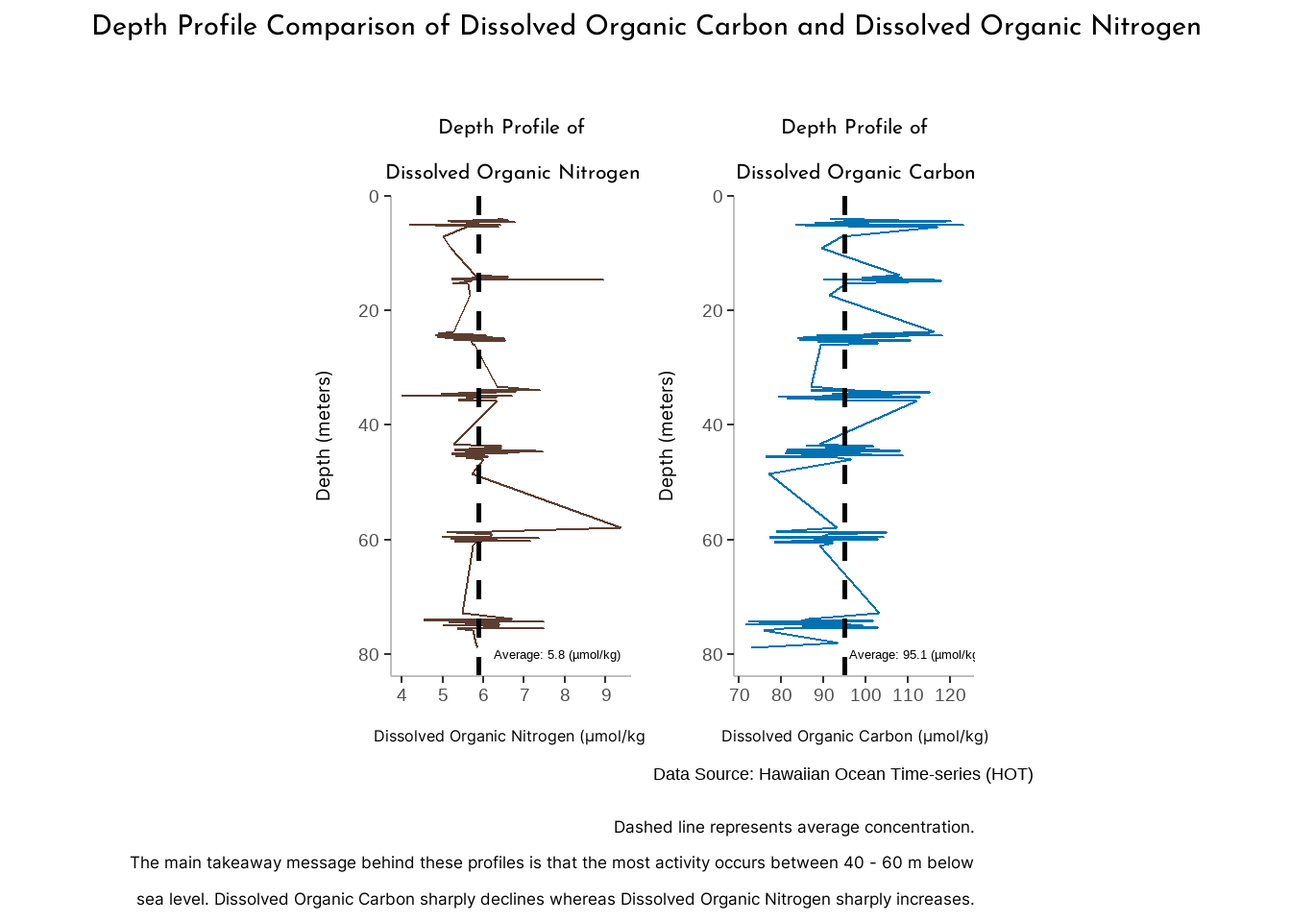
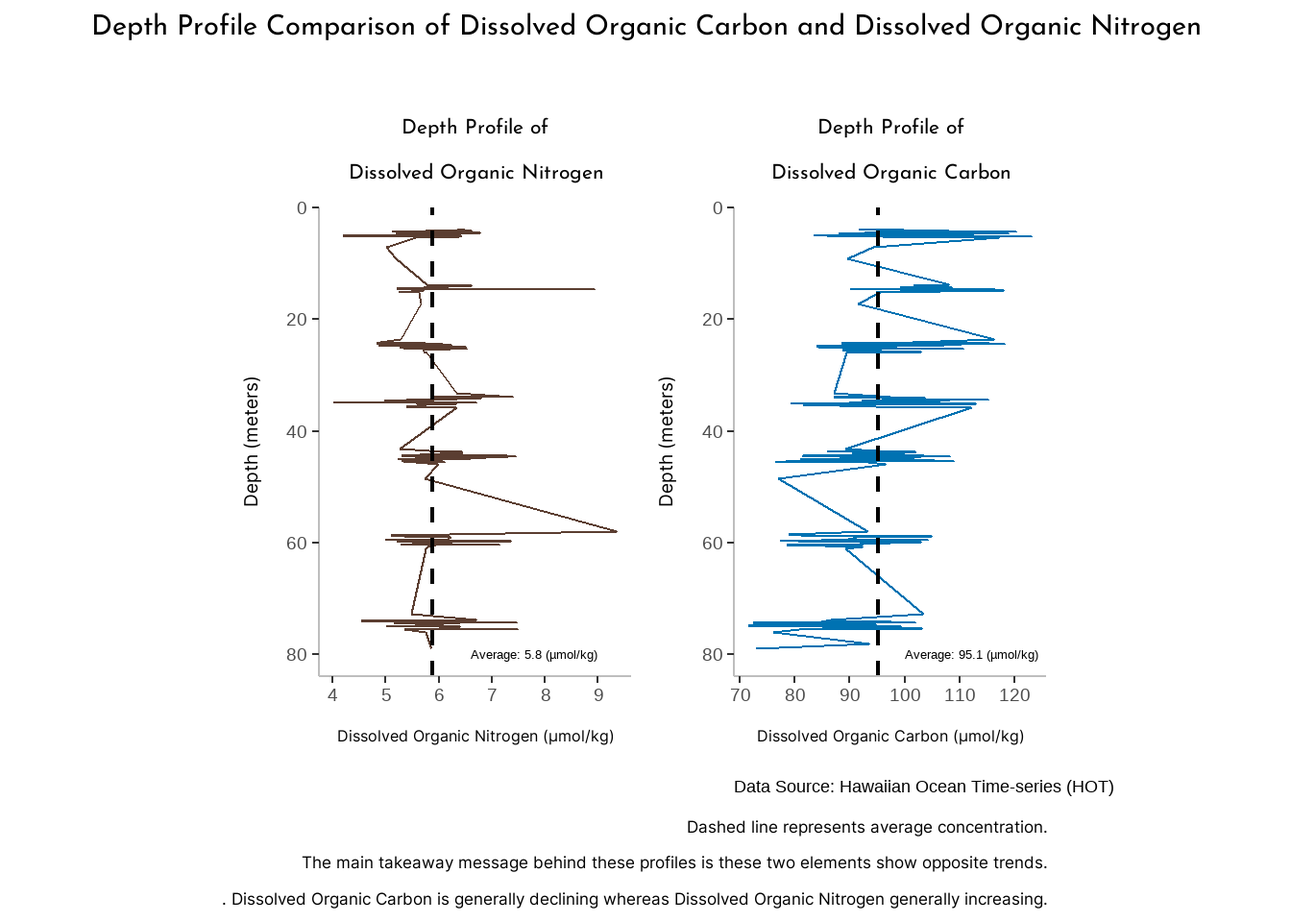
tried my best!

diff --git a/index.html b/index.html
@@ -171,7 +171,7 @@ pre > code.sourceCode > span > a:first-child::before { text-decoration: underlin
 <span id="cb1-7"><a href="#cb1-7" aria-hidden="true" tabindex="-1"></a>  <span class="fu">geom_hline</span>(<span class="at">yintercept =</span> avg_dissolved_n,</span>
 <span id="cb1-8"><a href="#cb1-8" aria-hidden="true" tabindex="-1"></a>             <span class="at">color =</span> <span class="st">'black'</span>,</span>
 <span id="cb1-9"><a href="#cb1-9" aria-hidden="true" tabindex="-1"></a>             <span class="at">linetype =</span> <span class="st">'dashed'</span>,</span>
-<span id="cb1-10"><a href="#cb1-10" aria-hidden="true" tabindex="-1"></a>             <span class="at">linewidth =</span> <span class="dv">1</span>)<span class="sc">+</span></span>
+<span id="cb1-10"><a href="#cb1-10" aria-hidden="true" tabindex="-1"></a>             <span class="at">linewidth =</span> <span class="fl">0.81</span>)<span class="sc">+</span></span>
 <span id="cb1-11"><a href="#cb1-11" aria-hidden="true" tabindex="-1"></a>  <span class="fu">scale_x_reverse</span>()<span class="sc">+</span></span>
 <span id="cb1-12"><a href="#cb1-12" aria-hidden="true" tabindex="-1"></a>  <span class="fu">scale_y_continuous</span>(<span class="at">breaks =</span> scales<span class="sc">::</span><span class="fu">pretty_breaks</span>(<span class="at">n =</span> <span class="dv">6</span>))<span class="sc">+</span></span>
 <span id="cb1-13"><a href="#cb1-13" aria-hidden="true" tabindex="-1"></a>  <span class="fu">labs</span>(<span class="at">y =</span> <span class="st">'Dissolved Organic Nitrogen (µmol/kg)'</span>,</span>
@@ -179,7 +179,7 @@ pre > code.sourceCode > span > a:first-child::before { text-decoration: underlin
 <span id="cb1-15"><a href="#cb1-15" aria-hidden="true" tabindex="-1"></a>       <span class="at">title =</span> <span class="st">'Depth Profile of </span><span class="sc">\n</span><span class="st">Dissolved Organic Nitrogen'</span>)<span class="sc">+</span></span>
 <span id="cb1-16"><a href="#cb1-16" aria-hidden="true" tabindex="-1"></a>  <span class="fu">coord_flip</span>()<span class="sc">+</span></span>
 <span id="cb1-17"><a href="#cb1-17" aria-hidden="true" tabindex="-1"></a>  <span class="fu">theme</span>(</span>
-<span id="cb1-18"><a href="#cb1-18" aria-hidden="true" tabindex="-1"></a>    <span class="at">aspect.ratio =</span> <span class="dv">2</span>,</span>
+<span id="cb1-18"><a href="#cb1-18" aria-hidden="true" tabindex="-1"></a>    <span class="at">aspect.ratio =</span> <span class="fl">1.5</span>,</span>
 <span id="cb1-19"><a href="#cb1-19" aria-hidden="true" tabindex="-1"></a>    <span class="at">axis.title.x =</span> <span class="fu">element_text</span>(<span class="at">family =</span> <span class="st">'inter'</span>, <span class="at">size =</span> <span class="dv">12</span>,</span>
 <span id="cb1-20"><a href="#cb1-20" aria-hidden="true" tabindex="-1"></a>                                <span class="at">margin =</span> <span class="fu">margin</span>(<span class="dv">10</span>, <span class="dv">0</span>, <span class="dv">0</span>, <span class="dv">0</span>)),</span>
 <span id="cb1-21"><a href="#cb1-21" aria-hidden="true" tabindex="-1"></a>    <span class="at">axis.title.y =</span> <span class="fu">element_text</span>(<span class="at">family =</span> <span class="st">'inter'</span>, <span class="at">size =</span> <span class="dv">14</span>,</span>
@@ -187,80 +187,83 @@ pre > code.sourceCode > span > a:first-child::before { text-decoration: underlin
 <span id="cb1-23"><a href="#cb1-23" aria-hidden="true" tabindex="-1"></a>    <span class="at">plot.title =</span> <span class="fu">element_text</span>(</span>
 <span id="cb1-24"><a href="#cb1-24" aria-hidden="true" tabindex="-1"></a>      <span class="at">family =</span> <span class="st">'josefin'</span>,</span>
 <span id="cb1-25"><a href="#cb1-25" aria-hidden="true" tabindex="-1"></a>      <span class="at">size =</span> <span class="dv">16</span>,</span>
-<span id="cb1-26"><a href="#cb1-26" aria-hidden="true" tabindex="-1"></a>      <span class="at">hjust =</span> .<span class="dv">5</span></span>
-<span id="cb1-27"><a href="#cb1-27" aria-hidden="true" tabindex="-1"></a>    ),</span>
-<span id="cb1-28"><a href="#cb1-28" aria-hidden="true" tabindex="-1"></a>    <span class="at">panel.border =</span> <span class="fu">element_blank</span>(),</span>
-<span id="cb1-29"><a href="#cb1-29" aria-hidden="true" tabindex="-1"></a>    <span class="at">panel.grid.major =</span> <span class="fu">element_blank</span>(),</span>
-<span id="cb1-30"><a href="#cb1-30" aria-hidden="true" tabindex="-1"></a>    <span class="at">panel.grid.minor =</span> <span class="fu">element_blank</span>(),</span>
-<span id="cb1-31"><a href="#cb1-31" aria-hidden="true" tabindex="-1"></a>    <span class="at">panel.background =</span> <span class="fu">element_blank</span>(),</span>
-<span id="cb1-32"><a href="#cb1-32" aria-hidden="true" tabindex="-1"></a>    <span class="at">axis.line =</span> <span class="fu">element_line</span>(<span class="at">colour =</span> <span class="st">"grey"</span>),</span>
-<span id="cb1-33"><a href="#cb1-33" aria-hidden="true" tabindex="-1"></a>    <span class="at">axis.text.x =</span> <span class="fu">element_text</span>(<span class="at">size =</span> <span class="dv">14</span>),</span>
-<span id="cb1-34"><a href="#cb1-34" aria-hidden="true" tabindex="-1"></a>    <span class="at">axis.text.y =</span> <span class="fu">element_text</span>(<span class="at">size =</span> <span class="dv">14</span>))<span class="sc">+</span></span>
-<span id="cb1-35"><a href="#cb1-35" aria-hidden="true" tabindex="-1"></a>   <span class="fu">annotate</span>(</span>
-<span id="cb1-36"><a href="#cb1-36" aria-hidden="true" tabindex="-1"></a>    <span class="st">"text"</span>,</span>
-<span id="cb1-37"><a href="#cb1-37" aria-hidden="true" tabindex="-1"></a>    <span class="at">x =</span> <span class="dv">80</span>,</span>
-<span id="cb1-38"><a href="#cb1-38" aria-hidden="true" tabindex="-1"></a>    <span class="at">y =</span> <span class="fl">7.8</span>,</span>
-<span id="cb1-39"><a href="#cb1-39" aria-hidden="true" tabindex="-1"></a>    <span class="at">label =</span> <span class="st">'Average: 5.8 (µmol/kg)'</span>,</span>
-<span id="cb1-40"><a href="#cb1-40" aria-hidden="true" tabindex="-1"></a>    <span class="at">size =</span> <span class="fl">3.5</span></span>
-<span id="cb1-41"><a href="#cb1-41" aria-hidden="true" tabindex="-1"></a>  )</span>
-<span id="cb1-42"><a href="#cb1-42" aria-hidden="true" tabindex="-1"></a></span>
-<span id="cb1-43"><a href="#cb1-43" aria-hidden="true" tabindex="-1"></a>carbon_plot <span class="ot">&lt;-</span> <span class="fu">ggplot</span>(<span class="at">data =</span> nutrient_clean_2)<span class="sc">+</span></span>
-<span id="cb1-44"><a href="#cb1-44" aria-hidden="true" tabindex="-1"></a>  <span class="fu">geom_line</span>(<span class="fu">aes</span>(<span class="at">x =</span> depth , <span class="at">y =</span> dissolved_c), <span class="at">color =</span> <span class="st">'#0072B2'</span>)<span class="sc">+</span></span>
-<span id="cb1-45"><a href="#cb1-45" aria-hidden="true" tabindex="-1"></a>  <span class="fu">geom_hline</span>(<span class="at">yintercept =</span> avg_dissolved_c,</span>
-<span id="cb1-46"><a href="#cb1-46" aria-hidden="true" tabindex="-1"></a>             <span class="at">color =</span> <span class="st">'black'</span>,</span>
-<span id="cb1-47"><a href="#cb1-47" aria-hidden="true" tabindex="-1"></a>             <span class="at">linetype =</span> <span class="st">'dashed'</span>,</span>
-<span id="cb1-48"><a href="#cb1-48" aria-hidden="true" tabindex="-1"></a>             <span class="at">linewidth =</span> <span class="dv">1</span>)<span class="sc">+</span></span>
-<span id="cb1-49"><a href="#cb1-49" aria-hidden="true" tabindex="-1"></a>  <span class="fu">scale_x_reverse</span>()<span class="sc">+</span></span>
-<span id="cb1-50"><a href="#cb1-50" aria-hidden="true" tabindex="-1"></a>  <span class="fu">scale_y_continuous</span>(<span class="at">breaks =</span> scales<span class="sc">::</span><span class="fu">pretty_breaks</span>(<span class="at">n =</span> <span class="dv">6</span>))<span class="sc">+</span></span>
-<span id="cb1-51"><a href="#cb1-51" aria-hidden="true" tabindex="-1"></a>  <span class="fu">labs</span>(<span class="at">y =</span> <span class="st">'Dissolved Organic Carbon (µmol/kg)'</span>,</span>
-<span id="cb1-52"><a href="#cb1-52" aria-hidden="true" tabindex="-1"></a>       <span class="at">x =</span> <span class="st">'Depth (meters)'</span>,</span>
-<span id="cb1-53"><a href="#cb1-53" aria-hidden="true" tabindex="-1"></a>       <span class="at">title =</span> <span class="st">'Depth Profile of </span><span class="sc">\n</span><span class="st">Dissolved Organic Carbon'</span>,</span>
-<span id="cb1-54"><a href="#cb1-54" aria-hidden="true" tabindex="-1"></a>       <span class="at">tag =</span> <span class="st">"Data Source: Hawaiian Ocean Time-series (HOT)"</span>)<span class="sc">+</span></span>
-<span id="cb1-55"><a href="#cb1-55" aria-hidden="true" tabindex="-1"></a>   <span class="fu">coord_flip</span>()<span class="sc">+</span></span>
-<span id="cb1-56"><a href="#cb1-56" aria-hidden="true" tabindex="-1"></a>  <span class="fu">theme</span>(</span>
-<span id="cb1-57"><a href="#cb1-57" aria-hidden="true" tabindex="-1"></a>    <span class="at">aspect.ratio =</span> <span class="dv">2</span>,</span>
-<span id="cb1-58"><a href="#cb1-58" aria-hidden="true" tabindex="-1"></a>    <span class="at">axis.title.x =</span> <span class="fu">element_text</span>(<span class="at">family =</span> <span class="st">'inter'</span>, <span class="at">size =</span> <span class="dv">12</span>, </span>
-<span id="cb1-59"><a href="#cb1-59" aria-hidden="true" tabindex="-1"></a>                                <span class="at">margin =</span> <span class="fu">margin</span>(<span class="dv">10</span>, <span class="dv">0</span>, <span class="dv">0</span>, <span class="dv">0</span>)),</span>
-<span id="cb1-60"><a href="#cb1-60" aria-hidden="true" tabindex="-1"></a>    <span class="at">axis.title.y =</span> <span class="fu">element_text</span>(<span class="at">family =</span> <span class="st">'inter'</span>, <span class="at">size =</span> <span class="dv">14</span>,</span>
-<span id="cb1-61"><a href="#cb1-61" aria-hidden="true" tabindex="-1"></a>                                <span class="at">margin =</span> <span class="fu">margin</span>(<span class="dv">0</span>, <span class="dv">10</span>, <span class="dv">10</span>, <span class="dv">0</span>)),</span>
-<span id="cb1-62"><a href="#cb1-62" aria-hidden="true" tabindex="-1"></a>    <span class="at">plot.title =</span> <span class="fu">element_text</span>(</span>
-<span id="cb1-63"><a href="#cb1-63" aria-hidden="true" tabindex="-1"></a>      <span class="at">family =</span> <span class="st">'josefin'</span>,</span>
-<span id="cb1-64"><a href="#cb1-64" aria-hidden="true" tabindex="-1"></a>      <span class="at">size =</span> <span class="dv">16</span>,</span>
-<span id="cb1-65"><a href="#cb1-65" aria-hidden="true" tabindex="-1"></a>      <span class="at">hjust =</span> .<span class="dv">5</span></span>
-<span id="cb1-66"><a href="#cb1-66" aria-hidden="true" tabindex="-1"></a>    ),</span>
-<span id="cb1-67"><a href="#cb1-67" aria-hidden="true" tabindex="-1"></a>    <span class="at">panel.border =</span> <span class="fu">element_blank</span>(),</span>
-<span id="cb1-68"><a href="#cb1-68" aria-hidden="true" tabindex="-1"></a>    <span class="at">panel.grid.major =</span> <span class="fu">element_blank</span>(),</span>
-<span id="cb1-69"><a href="#cb1-69" aria-hidden="true" tabindex="-1"></a>    <span class="at">panel.grid.minor =</span> <span class="fu">element_blank</span>(),</span>
-<span id="cb1-70"><a href="#cb1-70" aria-hidden="true" tabindex="-1"></a>    <span class="at">panel.background =</span> <span class="fu">element_blank</span>(),</span>
-<span id="cb1-71"><a href="#cb1-71" aria-hidden="true" tabindex="-1"></a>    <span class="at">axis.line =</span> <span class="fu">element_line</span>(<span class="at">colour =</span> <span class="st">"grey"</span>),</span>
-<span id="cb1-72"><a href="#cb1-72" aria-hidden="true" tabindex="-1"></a>    <span class="at">axis.text.x =</span> <span class="fu">element_text</span>(<span class="at">size =</span> <span class="dv">14</span>),</span>
-<span id="cb1-73"><a href="#cb1-73" aria-hidden="true" tabindex="-1"></a>    <span class="at">axis.text.y =</span> <span class="fu">element_text</span>(<span class="at">size =</span> <span class="dv">14</span>),</span>
-<span id="cb1-74"><a href="#cb1-74" aria-hidden="true" tabindex="-1"></a>    <span class="at">plot.tag.position =</span> <span class="fu">c</span>(.<span class="dv">581</span>, <span class="sc">-</span>.<span class="dv">046</span>))<span class="sc">+</span></span>
-<span id="cb1-75"><a href="#cb1-75" aria-hidden="true" tabindex="-1"></a>  <span class="fu">annotate</span>(</span>
-<span id="cb1-76"><a href="#cb1-76" aria-hidden="true" tabindex="-1"></a>    <span class="st">"text"</span>,</span>
-<span id="cb1-77"><a href="#cb1-77" aria-hidden="true" tabindex="-1"></a>    <span class="at">x =</span> <span class="dv">80</span>,</span>
-<span id="cb1-78"><a href="#cb1-78" aria-hidden="true" tabindex="-1"></a>    <span class="at">y =</span> <span class="dv">112</span>,</span>
-<span id="cb1-79"><a href="#cb1-79" aria-hidden="true" tabindex="-1"></a>    <span class="at">label =</span> <span class="st">'Average: 95.1 (µmol/kg)'</span>,</span>
-<span id="cb1-80"><a href="#cb1-80" aria-hidden="true" tabindex="-1"></a>    <span class="at">size =</span> <span class="fl">3.5</span></span>
-<span id="cb1-81"><a href="#cb1-81" aria-hidden="true" tabindex="-1"></a>  )</span>
-<span id="cb1-82"><a href="#cb1-82" aria-hidden="true" tabindex="-1"></a></span>
-<span id="cb1-83"><a href="#cb1-83" aria-hidden="true" tabindex="-1"></a></span>
-<span id="cb1-84"><a href="#cb1-84" aria-hidden="true" tabindex="-1"></a> nitrogen_plot <span class="sc">+</span> carbon_plot <span class="sc">+</span></span>
-<span id="cb1-85"><a href="#cb1-85" aria-hidden="true" tabindex="-1"></a>  <span class="fu">plot_annotation</span>(</span>
-<span id="cb1-86"><a href="#cb1-86" aria-hidden="true" tabindex="-1"></a>    <span class="at">caption =</span> <span class="st">'</span><span class="sc">\n</span><span class="st">Dashed line represents average concentration.</span><span class="sc">\n</span><span class="st"> The main takeaway message behind these profiles is that the most activity occurs between 40 - 60 m below </span><span class="sc">\n</span><span class="st">sea level. Dissolved Organic Carbon sharply declines whereas Dissolved Organic Nitrogen sharply increases.'</span>,</span>
-<span id="cb1-87"><a href="#cb1-87" aria-hidden="true" tabindex="-1"></a>    <span class="at">theme =</span> <span class="fu">theme</span>(</span>
-<span id="cb1-88"><a href="#cb1-88" aria-hidden="true" tabindex="-1"></a>      <span class="at">plot.caption =</span> <span class="fu">element_text</span>(<span class="at">family =</span> <span class="st">'inter'</span>,</span>
-<span id="cb1-89"><a href="#cb1-89" aria-hidden="true" tabindex="-1"></a>                                  <span class="at">size =</span> <span class="dv">13</span>,</span>
-<span id="cb1-90"><a href="#cb1-90" aria-hidden="true" tabindex="-1"></a>                                  <span class="at">margin =</span> <span class="fu">margin</span>(<span class="dv">10</span>,<span class="dv">0</span>,<span class="dv">0</span>,<span class="dv">0</span>)),</span>
-<span id="cb1-91"><a href="#cb1-91" aria-hidden="true" tabindex="-1"></a>      <span class="at">plot.title =</span> <span class="fu">element_text</span>(</span>
-<span id="cb1-92"><a href="#cb1-92" aria-hidden="true" tabindex="-1"></a>        <span class="at">family =</span> <span class="st">'josefin'</span>,</span>
-<span id="cb1-93"><a href="#cb1-93" aria-hidden="true" tabindex="-1"></a>        <span class="at">size =</span> <span class="dv">22</span>,</span>
-<span id="cb1-94"><a href="#cb1-94" aria-hidden="true" tabindex="-1"></a>        <span class="at">hjust =</span> .<span class="dv">5</span>,</span>
-<span id="cb1-95"><a href="#cb1-95" aria-hidden="true" tabindex="-1"></a>        <span class="at">margin =</span> <span class="fu">margin</span>(<span class="dv">0</span>, <span class="dv">0</span>, <span class="dv">25</span>, <span class="dv">0</span>)</span>
-<span id="cb1-96"><a href="#cb1-96" aria-hidden="true" tabindex="-1"></a>      )</span>
-<span id="cb1-97"><a href="#cb1-97" aria-hidden="true" tabindex="-1"></a>    ),</span>
-<span id="cb1-98"><a href="#cb1-98" aria-hidden="true" tabindex="-1"></a>    <span class="at">title =</span> <span class="st">'Depth Profile Comparison of Dissolved Organic Carbon and Dissolved Organic Nitrogen'</span></span>
-<span id="cb1-99"><a href="#cb1-99" aria-hidden="true" tabindex="-1"></a>  )</span></code><button title="Copy to Clipboard" class="code-copy-button"><i class="bi"></i></button></pre></div>
+<span id="cb1-26"><a href="#cb1-26" aria-hidden="true" tabindex="-1"></a>      <span class="at">hjust =</span> .<span class="dv">5</span>,</span>
+<span id="cb1-27"><a href="#cb1-27" aria-hidden="true" tabindex="-1"></a>      <span class="at">margin =</span> <span class="fu">margin</span>(<span class="dv">0</span>,<span class="dv">0</span>,<span class="dv">10</span>,<span class="dv">0</span>)</span>
+<span id="cb1-28"><a href="#cb1-28" aria-hidden="true" tabindex="-1"></a>    ),</span>
+<span id="cb1-29"><a href="#cb1-29" aria-hidden="true" tabindex="-1"></a>    <span class="at">panel.border =</span> <span class="fu">element_blank</span>(),</span>
+<span id="cb1-30"><a href="#cb1-30" aria-hidden="true" tabindex="-1"></a>    <span class="at">panel.grid.major =</span> <span class="fu">element_blank</span>(),</span>
+<span id="cb1-31"><a href="#cb1-31" aria-hidden="true" tabindex="-1"></a>    <span class="at">panel.grid.minor =</span> <span class="fu">element_blank</span>(),</span>
+<span id="cb1-32"><a href="#cb1-32" aria-hidden="true" tabindex="-1"></a>    <span class="at">panel.background =</span> <span class="fu">element_blank</span>(),</span>
+<span id="cb1-33"><a href="#cb1-33" aria-hidden="true" tabindex="-1"></a>    <span class="at">axis.line =</span> <span class="fu">element_line</span>(<span class="at">colour =</span> <span class="st">"grey"</span>),</span>
+<span id="cb1-34"><a href="#cb1-34" aria-hidden="true" tabindex="-1"></a>    <span class="at">axis.text.x =</span> <span class="fu">element_text</span>(<span class="at">size =</span> <span class="dv">14</span>),</span>
+<span id="cb1-35"><a href="#cb1-35" aria-hidden="true" tabindex="-1"></a>    <span class="at">axis.text.y =</span> <span class="fu">element_text</span>(<span class="at">size =</span> <span class="dv">14</span>))<span class="sc">+</span></span>
+<span id="cb1-36"><a href="#cb1-36" aria-hidden="true" tabindex="-1"></a>   <span class="fu">annotate</span>(</span>
+<span id="cb1-37"><a href="#cb1-37" aria-hidden="true" tabindex="-1"></a>    <span class="st">"text"</span>,</span>
+<span id="cb1-38"><a href="#cb1-38" aria-hidden="true" tabindex="-1"></a>    <span class="at">x =</span> <span class="dv">80</span>,</span>
+<span id="cb1-39"><a href="#cb1-39" aria-hidden="true" tabindex="-1"></a>    <span class="at">y =</span> <span class="fl">7.8</span>,</span>
+<span id="cb1-40"><a href="#cb1-40" aria-hidden="true" tabindex="-1"></a>    <span class="at">label =</span> <span class="st">'Average: 5.8 (µmol/kg)'</span>,</span>
+<span id="cb1-41"><a href="#cb1-41" aria-hidden="true" tabindex="-1"></a>    <span class="at">size =</span> <span class="fl">3.5</span></span>
+<span id="cb1-42"><a href="#cb1-42" aria-hidden="true" tabindex="-1"></a>  )</span>
+<span id="cb1-43"><a href="#cb1-43" aria-hidden="true" tabindex="-1"></a></span>
+<span id="cb1-44"><a href="#cb1-44" aria-hidden="true" tabindex="-1"></a>carbon_plot <span class="ot">&lt;-</span> <span class="fu">ggplot</span>(<span class="at">data =</span> nutrient_clean_2)<span class="sc">+</span></span>
+<span id="cb1-45"><a href="#cb1-45" aria-hidden="true" tabindex="-1"></a>  <span class="fu">geom_line</span>(<span class="fu">aes</span>(<span class="at">x =</span> depth , <span class="at">y =</span> dissolved_c), <span class="at">color =</span> <span class="st">'#0072B2'</span>)<span class="sc">+</span></span>
+<span id="cb1-46"><a href="#cb1-46" aria-hidden="true" tabindex="-1"></a>  <span class="fu">geom_hline</span>(<span class="at">yintercept =</span> avg_dissolved_c,</span>
+<span id="cb1-47"><a href="#cb1-47" aria-hidden="true" tabindex="-1"></a>             <span class="at">color =</span> <span class="st">'black'</span>,</span>
+<span id="cb1-48"><a href="#cb1-48" aria-hidden="true" tabindex="-1"></a>             <span class="at">linetype =</span> <span class="st">'dashed'</span>,</span>
+<span id="cb1-49"><a href="#cb1-49" aria-hidden="true" tabindex="-1"></a>             <span class="at">linewidth =</span> <span class="fl">0.81</span>)<span class="sc">+</span></span>
+<span id="cb1-50"><a href="#cb1-50" aria-hidden="true" tabindex="-1"></a>  <span class="fu">scale_x_reverse</span>()<span class="sc">+</span></span>
+<span id="cb1-51"><a href="#cb1-51" aria-hidden="true" tabindex="-1"></a>  <span class="fu">scale_y_continuous</span>(<span class="at">breaks =</span> scales<span class="sc">::</span><span class="fu">pretty_breaks</span>(<span class="at">n =</span> <span class="dv">6</span>))<span class="sc">+</span></span>
+<span id="cb1-52"><a href="#cb1-52" aria-hidden="true" tabindex="-1"></a>  <span class="fu">labs</span>(<span class="at">y =</span> <span class="st">'Dissolved Organic Carbon (µmol/kg)'</span>,</span>
+<span id="cb1-53"><a href="#cb1-53" aria-hidden="true" tabindex="-1"></a>       <span class="at">x =</span> <span class="st">'Depth (meters)'</span>,</span>
+<span id="cb1-54"><a href="#cb1-54" aria-hidden="true" tabindex="-1"></a>       <span class="at">title =</span> <span class="st">'Depth Profile of </span><span class="sc">\n</span><span class="st">Dissolved Organic Carbon'</span>,</span>
+<span id="cb1-55"><a href="#cb1-55" aria-hidden="true" tabindex="-1"></a>       <span class="at">tag =</span> <span class="st">"Data Source: Hawaiian Ocean Time-series (HOT)"</span>)<span class="sc">+</span></span>
+<span id="cb1-56"><a href="#cb1-56" aria-hidden="true" tabindex="-1"></a>   <span class="fu">coord_flip</span>()<span class="sc">+</span></span>
+<span id="cb1-57"><a href="#cb1-57" aria-hidden="true" tabindex="-1"></a>  <span class="fu">theme</span>(</span>
+<span id="cb1-58"><a href="#cb1-58" aria-hidden="true" tabindex="-1"></a>    <span class="at">aspect.ratio =</span> <span class="fl">1.5</span>,</span>
+<span id="cb1-59"><a href="#cb1-59" aria-hidden="true" tabindex="-1"></a>    <span class="at">axis.title.x =</span> <span class="fu">element_text</span>(<span class="at">family =</span> <span class="st">'inter'</span>, <span class="at">size =</span> <span class="dv">12</span>, </span>
+<span id="cb1-60"><a href="#cb1-60" aria-hidden="true" tabindex="-1"></a>                                <span class="at">margin =</span> <span class="fu">margin</span>(<span class="dv">10</span>, <span class="dv">0</span>, <span class="dv">0</span>, <span class="dv">0</span>)),</span>
+<span id="cb1-61"><a href="#cb1-61" aria-hidden="true" tabindex="-1"></a>    <span class="at">axis.title.y =</span> <span class="fu">element_text</span>(<span class="at">family =</span> <span class="st">'inter'</span>, <span class="at">size =</span> <span class="dv">14</span>,</span>
+<span id="cb1-62"><a href="#cb1-62" aria-hidden="true" tabindex="-1"></a>                                <span class="at">margin =</span> <span class="fu">margin</span>(<span class="dv">0</span>, <span class="dv">10</span>, <span class="dv">10</span>, <span class="dv">0</span>)),</span>
+<span id="cb1-63"><a href="#cb1-63" aria-hidden="true" tabindex="-1"></a>    <span class="at">plot.title =</span> <span class="fu">element_text</span>(</span>
+<span id="cb1-64"><a href="#cb1-64" aria-hidden="true" tabindex="-1"></a>      <span class="at">family =</span> <span class="st">'josefin'</span>,</span>
+<span id="cb1-65"><a href="#cb1-65" aria-hidden="true" tabindex="-1"></a>      <span class="at">size =</span> <span class="dv">16</span>,</span>
+<span id="cb1-66"><a href="#cb1-66" aria-hidden="true" tabindex="-1"></a>      <span class="at">hjust =</span> .<span class="dv">5</span>,</span>
+<span id="cb1-67"><a href="#cb1-67" aria-hidden="true" tabindex="-1"></a>      <span class="at">margin =</span> <span class="fu">margin</span>(<span class="dv">0</span>,<span class="dv">0</span>,<span class="dv">10</span>,<span class="dv">0</span>)</span>
+<span id="cb1-68"><a href="#cb1-68" aria-hidden="true" tabindex="-1"></a>    ),</span>
+<span id="cb1-69"><a href="#cb1-69" aria-hidden="true" tabindex="-1"></a>    <span class="at">panel.border =</span> <span class="fu">element_blank</span>(),</span>
+<span id="cb1-70"><a href="#cb1-70" aria-hidden="true" tabindex="-1"></a>    <span class="at">panel.grid.major =</span> <span class="fu">element_blank</span>(),</span>
+<span id="cb1-71"><a href="#cb1-71" aria-hidden="true" tabindex="-1"></a>    <span class="at">panel.grid.minor =</span> <span class="fu">element_blank</span>(),</span>
+<span id="cb1-72"><a href="#cb1-72" aria-hidden="true" tabindex="-1"></a>    <span class="at">panel.background =</span> <span class="fu">element_blank</span>(),</span>
+<span id="cb1-73"><a href="#cb1-73" aria-hidden="true" tabindex="-1"></a>    <span class="at">axis.line =</span> <span class="fu">element_line</span>(<span class="at">colour =</span> <span class="st">"grey"</span>),</span>
+<span id="cb1-74"><a href="#cb1-74" aria-hidden="true" tabindex="-1"></a>    <span class="at">axis.text.x =</span> <span class="fu">element_text</span>(<span class="at">size =</span> <span class="dv">14</span>),</span>
+<span id="cb1-75"><a href="#cb1-75" aria-hidden="true" tabindex="-1"></a>    <span class="at">axis.text.y =</span> <span class="fu">element_text</span>(<span class="at">size =</span> <span class="dv">14</span>),</span>
+<span id="cb1-76"><a href="#cb1-76" aria-hidden="true" tabindex="-1"></a>    <span class="at">plot.tag.position =</span> <span class="fu">c</span>(.<span class="dv">681</span>, <span class="sc">-</span>.<span class="dv">046</span>),</span>
+<span id="cb1-77"><a href="#cb1-77" aria-hidden="true" tabindex="-1"></a>    <span class="at">plot.tag =</span> <span class="fu">element_text</span>(<span class="at">margin =</span> <span class="fu">margin</span>(<span class="dv">10</span>,<span class="dv">0</span>,<span class="dv">0</span>,<span class="dv">0</span>)))<span class="sc">+</span></span>
+<span id="cb1-78"><a href="#cb1-78" aria-hidden="true" tabindex="-1"></a>  <span class="fu">annotate</span>(</span>
+<span id="cb1-79"><a href="#cb1-79" aria-hidden="true" tabindex="-1"></a>    <span class="st">"text"</span>,</span>
+<span id="cb1-80"><a href="#cb1-80" aria-hidden="true" tabindex="-1"></a>    <span class="at">x =</span> <span class="dv">80</span>,</span>
+<span id="cb1-81"><a href="#cb1-81" aria-hidden="true" tabindex="-1"></a>    <span class="at">y =</span> <span class="dv">112</span>,</span>
+<span id="cb1-82"><a href="#cb1-82" aria-hidden="true" tabindex="-1"></a>    <span class="at">label =</span> <span class="st">'Average: 95.1 (µmol/kg)'</span>,</span>
+<span id="cb1-83"><a href="#cb1-83" aria-hidden="true" tabindex="-1"></a>    <span class="at">size =</span> <span class="fl">3.5</span></span>
+<span id="cb1-84"><a href="#cb1-84" aria-hidden="true" tabindex="-1"></a>  )</span>
+<span id="cb1-85"><a href="#cb1-85" aria-hidden="true" tabindex="-1"></a></span>
+<span id="cb1-86"><a href="#cb1-86" aria-hidden="true" tabindex="-1"></a></span>
+<span id="cb1-87"><a href="#cb1-87" aria-hidden="true" tabindex="-1"></a> nitrogen_plot <span class="sc">+</span> carbon_plot <span class="sc">+</span></span>
+<span id="cb1-88"><a href="#cb1-88" aria-hidden="true" tabindex="-1"></a>  <span class="fu">plot_annotation</span>(</span>
+<span id="cb1-89"><a href="#cb1-89" aria-hidden="true" tabindex="-1"></a>    <span class="at">caption =</span> <span class="st">'</span><span class="sc">\n</span><span class="st">Dashed line represents average concentration.</span><span class="sc">\n</span><span class="st"> The main takeaway message behind these profiles is these two elements show opposite trends. </span><span class="sc">\n</span><span class="st">. Dissolved Organic Carbon is generally declining whereas Dissolved Organic Nitrogen generally increasing.'</span>,</span>
+<span id="cb1-90"><a href="#cb1-90" aria-hidden="true" tabindex="-1"></a>    <span class="at">theme =</span> <span class="fu">theme</span>(</span>
+<span id="cb1-91"><a href="#cb1-91" aria-hidden="true" tabindex="-1"></a>      <span class="at">plot.caption =</span> <span class="fu">element_text</span>(<span class="at">family =</span> <span class="st">'inter'</span>,</span>
+<span id="cb1-92"><a href="#cb1-92" aria-hidden="true" tabindex="-1"></a>                                  <span class="at">size =</span> <span class="dv">13</span>,</span>
+<span id="cb1-93"><a href="#cb1-93" aria-hidden="true" tabindex="-1"></a>                                  <span class="at">margin =</span> <span class="fu">margin</span>(<span class="dv">10</span>,<span class="dv">0</span>,<span class="dv">0</span>,<span class="dv">0</span>)),</span>
+<span id="cb1-94"><a href="#cb1-94" aria-hidden="true" tabindex="-1"></a>      <span class="at">plot.title =</span> <span class="fu">element_text</span>(</span>
+<span id="cb1-95"><a href="#cb1-95" aria-hidden="true" tabindex="-1"></a>        <span class="at">family =</span> <span class="st">'josefin'</span>,</span>
+<span id="cb1-96"><a href="#cb1-96" aria-hidden="true" tabindex="-1"></a>        <span class="at">size =</span> <span class="dv">22</span>,</span>
+<span id="cb1-97"><a href="#cb1-97" aria-hidden="true" tabindex="-1"></a>        <span class="at">hjust =</span> .<span class="dv">5</span>,</span>
+<span id="cb1-98"><a href="#cb1-98" aria-hidden="true" tabindex="-1"></a>        <span class="at">margin =</span> <span class="fu">margin</span>(<span class="dv">0</span>, <span class="dv">0</span>, <span class="dv">25</span>, <span class="dv">0</span>)</span>
+<span id="cb1-99"><a href="#cb1-99" aria-hidden="true" tabindex="-1"></a>      )</span>
+<span id="cb1-100"><a href="#cb1-100" aria-hidden="true" tabindex="-1"></a>    ),</span>
+<span id="cb1-101"><a href="#cb1-101" aria-hidden="true" tabindex="-1"></a>    <span class="at">title =</span> <span class="st">'Depth Profile Comparison of Dissolved Organic Carbon and Dissolved Organic Nitrogen'</span></span>
+<span id="cb1-102"><a href="#cb1-102" aria-hidden="true" tabindex="-1"></a>  )</span></code><button title="Copy to Clipboard" class="code-copy-button"><i class="bi"></i></button></pre></div>
 </details>
 <div class="cell-output-display">
 <p><img src="index_files/figure-html/unnamed-chunk-2-1.png" class="img-fluid" width="672"></p>
